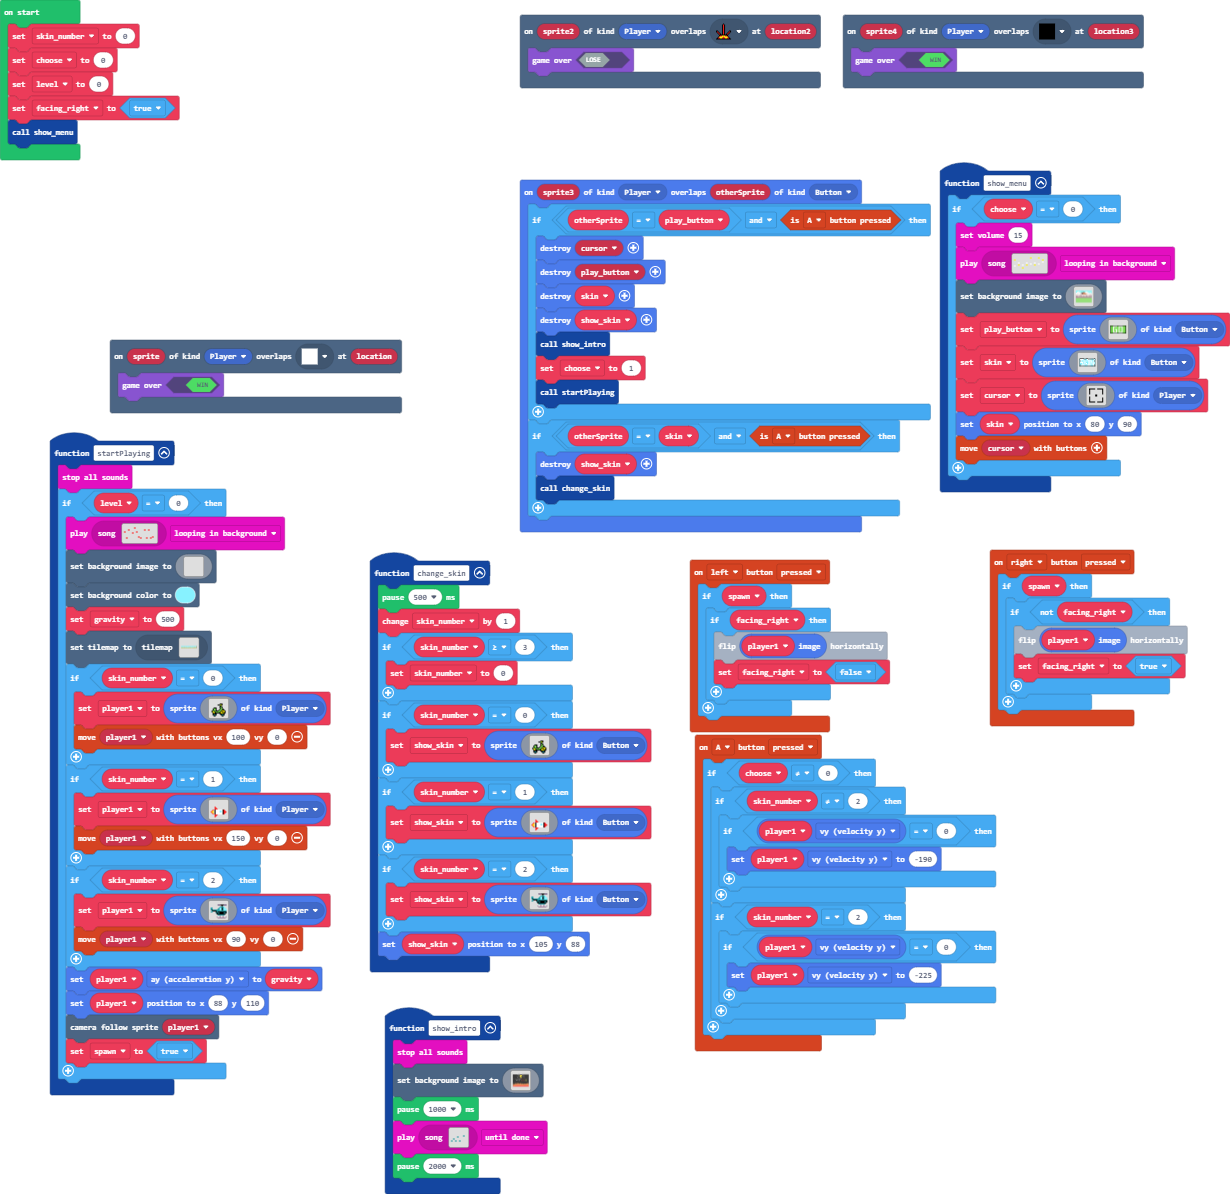
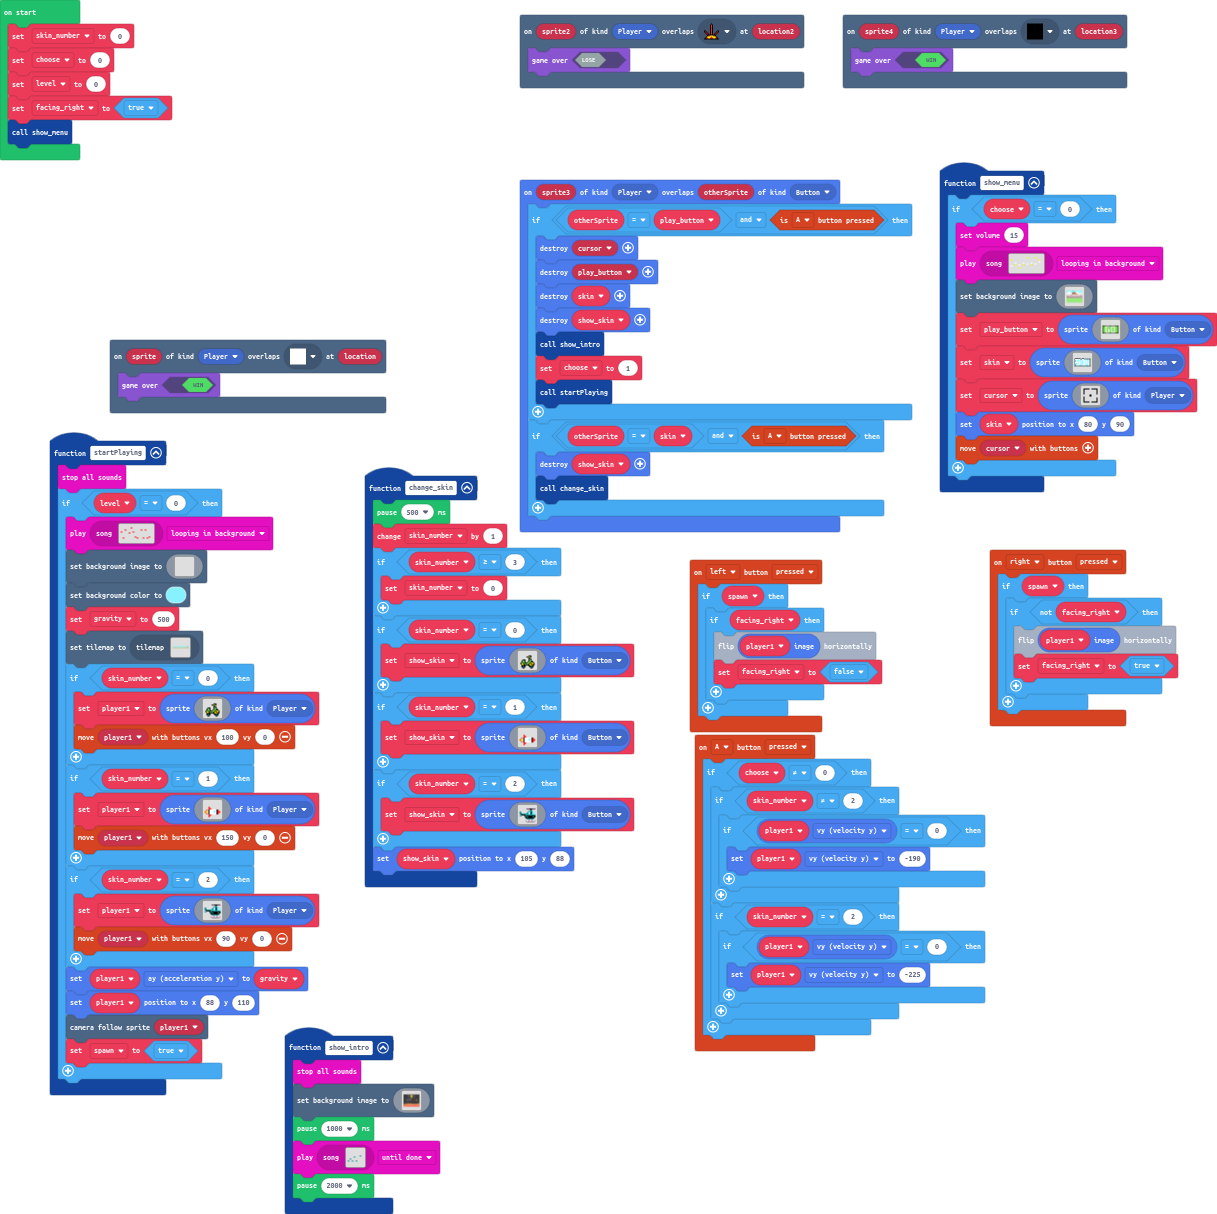
level creation 1

Changed region(s): [[0.0312, 0.124, 1.0, 1.0], [0.4059, 0.0, 0.9367, 0.093], [0.0, 0.0, 0.1561, 0.1549]]

diff --git a/tilemap.g.ts b/tilemap.g.ts
@@ -32,28 +32,23 @@ namespace myTiles {
     export const tile14 = image.ofBuffer(hex``);
     //% fixedInstance jres blockIdentity=images._tile
     export const tile15 = image.ofBuffer(hex``);
+    //% fixedInstance jres blockIdentity=images._tile
+    export const tile16 = image.ofBuffer(hex``);
+    //% fixedInstance jres blockIdentity=images._tile
+    export const tile17 = image.ofBuffer(hex``);
+    //% fixedInstance jres blockIdentity=images._tile
+    export const tile18 = image.ofBuffer(hex``);
+    //% fixedInstance jres blockIdentity=images._tile
+    export const tile19 = image.ofBuffer(hex``);
+    //% fixedInstance jres blockIdentity=images._tile
+    export const tile20 = image.ofBuffer(hex``);
+    //% fixedInstance jres blockIdentity=images._tile
+    export const tile21 = image.ofBuffer(hex``);
+    //% fixedInstance jres blockIdentity=images._tile
+    export const tile22 = image.ofBuffer(hex``);
 
     helpers._registerFactory("tilemap", function(name: string) {
         switch(helpers.stringTrim(name)) {
-            case "level2":
-            case "level2":return tiles.createTilemap(hex`1000100000000000000000000000000000000000000000000000000000000000000000000000000000000000000000000000000000000000000000000000000000000000000000000000000000000000000000000000000000000000000000000000000000000000000000000000000000000000000000000000000000000000000000000000000000000000000000000000000000000000000000000000000000000000000000000000000000000000000000000000000000000000000000000000000000000000000000000000000000000000000000000000000000000000000000000000000000000000000000000000000000000000000000000000000000000000`, img`
-. . . . . . . . . . . . . . . . 
-. . . . . . . . . . . . . . . . 
-. . . . . . . . . . . . . . . . 
-. . . . . . . . . . . . . . . . 
-. . . . . . . . . . . . . . . . 
-. . . . . . . . . . . . . . . . 
-. . . . . . . . . . . . . . . . 
-. . . . . . . . . . . . . . . . 
-. . . . . . . . . . . . . . . . 
-. . . . . . . . . . . . . . . . 
-. . . . . . . . . . . . . . . . 
-. . . . . . . . . . . . . . . . 
-. . . . . . . . . . . . . . . . 
-. . . . . . . . . . . . . . . . 
-. . . . . . . . . . . . . . . . 
-. . . . . . . . . . . . . . . . 
-`, [myTiles.transparency16], TileScale.Sixteen);
             case "level3":
             case "level3":return tiles.createTilemap(hex`1000100000000000000000000000000000000000000000000000000000000000000000000000000000000000000000000000000000000000000000000000000000000000000000000000000000000000000000000000000000000000000000000000000000000000000000000000000000000000000000000000000000000000000000000000000000000000000000000000000000000000000000000000000000000000000000000000000000000000000000000000000000000000000000000000000000000000000000000000000000000000000000000000000000000000000000000000000000000000000000000000000000000000000000000000000000000000`, img`
 . . . . . . . . . . . . . . . . 
@@ -92,6 +87,25 @@ namespace myTiles {
 ........................................................................................................................
 ........................................................................................................................
 `, [myTiles.transparency16,myTiles.tile1,myTiles.tile2,myTiles.tile3,myTiles.tile4,myTiles.tile9,myTiles.tile7,myTiles.tile13,myTiles.tile14,myTiles.tile15], TileScale.Sixteen);
+            case "level2":
[1 lines of base64/hex data omitted]
+...............................................................................................................................................................................................................................................................
+.............................................2222..............................................................................................................................................................................................................
+.................................2.............................................................................................................................................................................................................................
+.................................2.............................................................................................................................................................................................................................
+..................................................................................................................................................................................................................................................2222.........
+..........................................222....22222..........................................22222..................................................................................................................2........................222............
+........................222222222........22.2....2..........................2..2..2..2.........22...22............................................................................2222................................2.2......................22..............
+..................222...................22...2222.............................................22.....222222.2..2..2222..2..2..2222..2..2.222222.................222..............22..................................2...2.................22222...............
+.................2..22............2.........................22222222..22222..2..2..2..2..222222...........2......................................22222222......22.22............22..................................2.....2..............222...................
+................2....22.........22.22222.............................................................222222.............................................2.....22...22...222222222...................................2.....2.............22.....................
+.............2222.....22..........2....22.................2.................2..2..2..2..............22..................................................2222222.....222222..............22222..222222.2.2.2.2.22222..2...2............222......................
+222222222222...........2222222222.......22.............................................22222.....2222.......................................................................................2222......................2.2...22222222222........................
+.........................................2222222222222222..................................2222222.....................................................................................................................2.......................................
+...............................................................................................................................................................................................................................................................
+...............................................................................................................................................................................................................................................................
+.....................................................................................................................................................................................................................................................2222222222
+`, [myTiles.transparency16,myTiles.tile9,myTiles.tile10,myTiles.tile11,myTiles.tile12,myTiles.tile16,myTiles.tile17,myTiles.tile18,myTiles.tile19,myTiles.tile20,myTiles.tile2,myTiles.tile3,myTiles.tile21,myTiles.tile22], TileScale.Sixteen);
         }
         return null;
     })
@@ -129,6 +143,20 @@ namespace myTiles {
             case "tile14":return tile14;
             case "press_right":
             case "tile15":return tile15;
+            case "level2tile1":
+            case "tile16":return tile16;
+            case "level2slope1":
+            case "tile17":return tile17;
+            case "level2slope2":
+            case "tile18":return tile18;
+            case "level2slope3":
+            case "tile19":return tile19;
+            case "level2slope4":
+            case "tile20":return tile20;
+            case "mine-0":
+            case "tile21":return tile21;
+            case "mine-4":
+            case "tile22":return tile22;
         }
         return null;
     })

diff --git a/images.g.ts b/images.g.ts
@@ -53,25 +53,6 @@ f 8 8 f . . . . . . . f f f f f 9 9 f . . . . 4 .
 . . . f f f f f f f f f f f f f f f f f f . . 4 . 
 . . . . . . . . . . . . . . . . . . . . . . . 4 . 
 `;
-            case "image5":
-            case "bicycle":return img`
-. . . . . . . . . . . . . . . . 
-. . . . . . . . . . . . . . . . 
-. . . . . . . . . . . . . . . . 
-. . . . . . . . . . . . . . . . 
-. . . . . . . . . . . . . . . . 
-. . . . f f f . 6 6 6 6 . . . . 
-. . . . . 2 . . . 2 5 . . . . . 
-. . . . . 2 2 . . 2 . . . . . . 
-. . . . . 2 2 . 2 . 2 . . . . . 
-. . f f f 2 . 2 . . 2 f f f . . 
-. f b b 2 f . 2 . . f 2 b b f . 
-f b b 2 b b f 2 . f b 2 2 b b f 
-f b b f 2 2 2 2 2 2 2 2 f b b f 
-f b b b b b f . . f b b b b b f 
-. f b b b f . . . . f b b b f . 
-. . f f f . . . . . . f f f . . 
-`;
             case "image8":
             case "patin":return img`
 . . . . . . . . . . . . . . . . 
@@ -469,6 +450,25 @@ f4444444444444444444444444444444444444444444444444444444444444444444444444444444
 4222222222222222222222222222222222222222222222222222222222222222222222222222222222222222222222222222222222222222222222222222222222222222222222222222222222222222
 4222222222222222222222222222222222222222222222222222222222222222222222222222222222222222222222222222222222222222222222222222222222222222222222222222222222222222
 2222222222222222222222222222222222222222222222222222222222222222222222222222222222222222222222222222222222222222222222222222222222222222222222222222222222222222
+`;
+            case "image5":
+            case "bicycle":return img`
+. . . . . . . . . . . . . . . . 
+. . . . . . . . . . . . . . . . 
+. . . . . . . . . . . . . . . . 
+. . . . . . . . . . . . . . . . 
+. . . . . . . . . . . . . . . . 
+. . . . f f f . 6 6 6 6 . . . . 
+. . . . . 2 . . . 2 5 . . . . . 
+. . . . . 2 2 . . 2 . . . . . . 
+. . . . . 2 2 . 2 . 2 . . . . . 
+. . f f f 2 . 2 . . 2 f f f . . 
+. f b b 2 f . 2 . . f 2 b b f . 
+f b b 2 b b f 2 . f b 2 2 b b f 
+f b b f 2 2 2 2 2 2 2 2 f b b f 
+f b b b b b f . . f b b b b b f 
+. f b b b f . . . . f b b b f . 
+. . f f f . . . . . . f f f . . 
 `;
         }
         return null;
